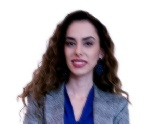
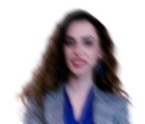
major refactor

diff --git a/project/main.py b/project/main.py
@@ -1,83 +1,41 @@
-import cv2
 import numpy as np
-import multiprocessing as mp
-from multiprocessing import shared_memory
+import cv2
+from gauss import *
 
-thread_count = 10
-
-
-def generate_norms_2d(n, deviation):
-    theta = np.random.random(n) * np.pi * 2
-    r = -2 * np.log(np.random.random(n))
-
-    x = np.multiply(np.sqrt(r), np.cos(theta)) * deviation
-    # y = np.sqrt(r) * np.sin(theta) * deviation
-
-    return x
+get_image = lambda name: cv2.imread(f"assets/{name}", cv2.IMREAD_COLOR)
 
 
-def apply_gauss(img, compression=1, norm_count=100, deviation=1):
-    norms = generate_norms_2d(norm_count, deviation)
+def smoothen(name, ext):
+    img = get_image(f"{name}.{ext}")
+    img = apply_gauss(img, 1, 50, 3)
 
-    # get list of rows based on compression
-    rows = np.linspace(0, img.shape[0]-1, int(img.shape[0]/compression), dtype=int)
-
-    # get list of columns for each row based on compression
-    cols = list()
-    for _ in rows:
-        cols.append(np.linspace(0, img.shape[1]-1, int(img.shape[1]/compression), dtype=int))
-
-    # create a list of threads and a return dict
-    threads = list()
-    a = np.empty(shape=(len(rows), len(cols[0]), img.shape[2]), dtype=np.uint8)
-    shm = shared_memory.SharedMemory(create=True, size=a.nbytes, name="img")
-
-    new_img = np.ndarray(a.shape, dtype=a.dtype, buffer=shm.buf)
-
-    # divide lines in buckets
-    lines = np.arange(0, len(rows))
-    lines = np.array_split(lines, thread_count)
-
-    # assign each thread to a bucket
-    for line_set in lines:
-        thread = mp.Process(target=apply_gauss_line_thread, args=(line_set, len(cols[0]), img.shape[2], img, rows, cols, norms,))
-        threads.append(thread)
-        thread.start()
-
-    # wait for all threads to finish
-    for thread in threads:
-        thread.join()
-
-    new_img2 = np.array(new_img)
-
-    shm.close()
-    shm.unlink()
-
-    return new_img2
+    cv2.imwrite(f"assets/{name}_smoothened.png", img)
+    cv2.imshow(name, img)
 
 
-def apply_gauss_line_thread(lines, width, col_count, img, rows, cols, norms):
+def compress(name, ext):
+    img = get_image(f"{name}.{ext}")
+    img = apply_gauss(img, 10, 100, 10)
 
-    existing_shm = shared_memory.SharedMemory(name='img')
-    new_img = np.ndarray(shape=(len(rows), len(cols[0]), img.shape[2]), dtype=np.uint8, buffer=existing_shm.buf)
+    cv2.imwrite(f"assets/{name}compressed.png", img)
+    cv2.imshow(name, img)
 
-    # compute values for all given lines
-    for i in lines:
 
-        for j in range(width):
-            points = [img[rows[i], cols[i][j]]]
+def expand(name, ext):
+    img = get_image(f"{name}.{ext}")
+    img = cv2.resize(img, (0, 0), fx=5, fy=5)
+    img = apply_gauss(img, 1, 50, 2.5)
 
-            for norm in norms:
-                ii = rows[i] + int(norm)
-                jj = cols[i][j] + int(norm)
+    cv2.imwrite(f"assets/{name}_expanded.png", img)
+    cv2.imshow(name, img)
 
-                if 0 <= ii < img.shape[0] and 0 <= jj < img.shape[1]:
-                    points.append(img[ii, jj])
 
-            new_img[i, j] = np.mean(np.array(points), axis=0)
+if __name__ == '__main__':
 
-        if lines[0] == 0:
-            print("progress: " + str(round((i / lines[-1]) * 100, 2)) + "%")
+    # smoothen("cezara", "png")
+    # expand("cezara", "png")
+    # compress("sipos", "jpg")
 
-    existing_shm.close()
+    cv2.waitKey(0)
+    cv2.destroyAllWindows()
 

diff --git a/project/gauss.py b/project/gauss.py
@@ -1,0 +1,84 @@
+import cv2
+import numpy as np
+import multiprocessing as mp
+from multiprocessing import shared_memory
+
+thread_count = 10
+
+
+def generate_norms(n, deviation):
+    theta = np.random.random(n) * np.pi * 2
+    r = -2 * np.log(np.random.random(n))
+
+    x = np.multiply(np.sqrt(r), np.cos(theta)) * deviation
+    # y = np.sqrt(r) * np.sin(theta) * deviation
+
+    return x
+
+
+def apply_gauss(img, compression=1, norm_count=100, deviation=1):
+    norms = generate_norms(norm_count, deviation)
+
+    # get list of rows based on compression
+    rows = np.linspace(0, img.shape[0]-1, int(img.shape[0]/compression), dtype=int)
+
+    # get list of columns based on compression
+    cols = np.linspace(0, img.shape[1]-1, int(img.shape[1]/compression), dtype=int)
+
+    # create a shared memory for threads to write the results in
+    a = np.empty(shape=(len(rows), len(cols), img.shape[2]), dtype=np.uint8)
+    shm = shared_memory.SharedMemory(create=True, size=a.nbytes, name="img")
+    new_img = np.ndarray(a.shape, dtype=a.dtype, buffer=shm.buf)
+
+    # split line indexes into sets
+    lines = np.arange(0, len(rows))
+    lines = np.array_split(lines, thread_count)
+
+    threads = list()
+
+    # create a threat for each set of lines
+    for line_set in lines:
+        thread = mp.Process(target=apply_gauss_line_thread, args=(line_set, len(cols), img, rows, cols, norms,))
+        threads.append(thread)
+        thread.start()
+
+    # wait for all threads to finish
+    for thread in threads:
+        thread.join()
+
+    # clone image locally (in order to free shared memory)
+    new_img2 = np.array(new_img)
+
+    shm.close()
+    shm.unlink()
+
+    return new_img2
+
+
+def apply_gauss_line_thread(lines, width, img, rows, cols, norms):
+
+    # open shared memory
+    existing_shm = shared_memory.SharedMemory(name='img')
+    new_img = np.ndarray(shape=(len(rows), len(cols), img.shape[2]), dtype=np.uint8, buffer=existing_shm.buf)
+
+    # compute values for all given lines
+    for i in lines:
+        for j in range(width):
+            points = [img[rows[i], cols[j]]]
+
+            for norm in norms:
+                ii = rows[i] + int(norm)
+                jj = cols[j] + int(norm)
+
+                if 0 <= ii < img.shape[0] and 0 <= jj < img.shape[1]:
+                    points.append(img[ii, jj])
+
+            # set element as mean of surrounding elements
+            new_img[i, j] = np.mean(np.array(points), axis=0)
+
+        # show progress
+        if lines[0] == 0:
+            print("progress: " + str(round((i / lines[-1]) * 100, 2)) + "%")
+
+    existing_shm.close()
+
